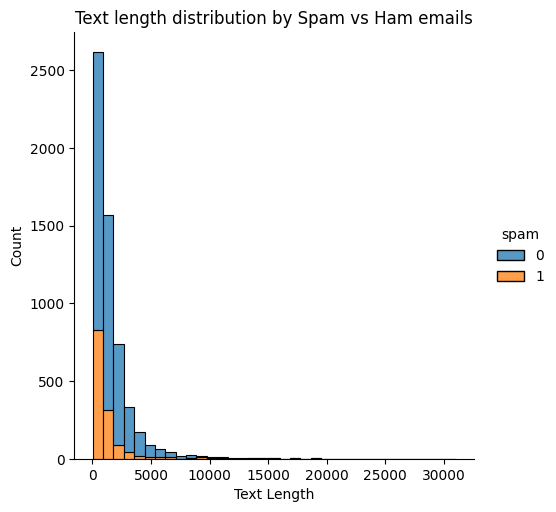
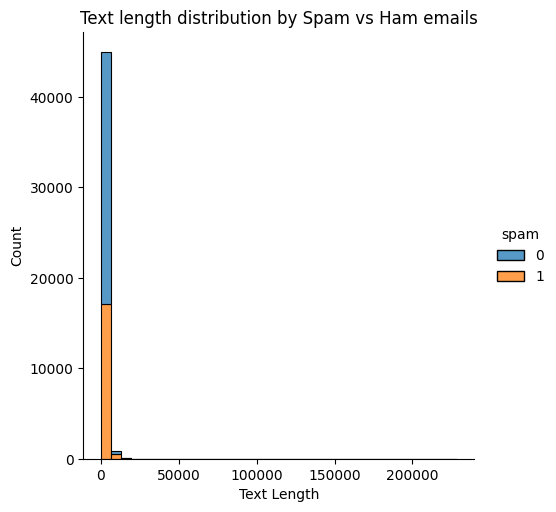
data type conversion

Changed region(s): [[0.0612, 0.0, 0.8561, 1.0]]

diff --git a/data_visualization.py b/data_visualization.py
@@ -18,17 +18,17 @@ def generate_feature_plot(email_df):
     spam_distribution.savefig(sys.path[0] + "/processed/plots/spam_distribution.png")
 
     # Generate plot for text length distribution of spam vs ham in the dataset 
-    email_df['text length'] = email_df['text'].apply(len) # Add a new data column categorizing the length of each email
+    email_df['text length'] = (email_df['text'].apply(lambda x: np.str_(x))).apply(len) # Add a new data column categorizing the length of each email
     email_length = sns.displot(email_df, x='text length', multiple="stack", hue="spam", bins=35).set_xlabels('Text Length').set(title='Text length distribution by Spam vs Ham emails')
     email_length.savefig(sys.path[0] + "/processed/plots/email_length.png")
 
     # Generate a word cloud for non spam emails
-    ham_text = " ".join(email for email in email_df[email_df['spam'] == 0]['text']) # Add all the text in the dataset that isn't spam to a long string
+    ham_text = " ".join(email for email in (email_df.to_string('text'))[email_df['spam'] == 0]['text']) # Add all the text in the dataset that isn't spam to a long string
     ham_wordcloud = WordCloud(width=500, height=500, max_font_size=75, max_words=150, background_color="white").generate(ham_text)
     ham_wordcloud.to_file(sys.path[0] + "/processed/plots/ham_wordcloud.png")
 
     # Generate a word cloud for spam emails
-    spam_text = " ".join(email for email in email_df[email_df['spam'] == 1]['text'])
+    spam_text = " ".join(email for email in (email_df.to_string('text'))[email_df['spam'] == 1]['text'])
     spam_wordcloud = WordCloud(width=500, height=500, max_font_size=75, max_words=150, background_color="white").generate(spam_text)
     spam_wordcloud.to_file(sys.path[0] + "/processed/plots/spam_wordcloud.png")
 
@@ -78,6 +78,4 @@ if __name__ == "__main__":
     # Load the email data
     email_dfs = load_data(sys.path[0] + "/dataset/combined_dataset.csv")
     # Generate plot
-    data_clean_up(email_dfs)
-    data_preprocessing(email_dfs)
-    generate_feature_plot(email_dfs)
+    generate_feature_plot(data_preprocessing(data_clean_up(email_dfs)))

diff --git a/data_utils.py b/data_utils.py
@@ -1,4 +1,5 @@
 import pandas as pd
+import numpy as np
 import sys
 
 def load_data(filename):
@@ -30,6 +31,7 @@ def data_clean_up(df):
         print("Found " + str(df.duplicated().sum()) + " duplicate entries")
         df.drop_duplicates(inplace=True) # Remove duplicates from dataframe
         df.reset_index(inplace=True) # Reset the index column after removing duplicates
+    return df
     
 def data_preprocessing(df):
     """
@@ -53,20 +55,16 @@ def data_preprocessing(df):
     # Remove NaN entries for both text and spam
     df = df.dropna(subset=['text', 'spam']).copy()
 
-    # Convert any invalid entries to string and int for easier checking
-    df['text'] = df['text'].astype(str)
-    df['spam'] = df['spam'].astype(int)
+    # Remove rows with value of float or int type
+    df = df.loc[df['text'].apply(type) == str]
 
-def data_combine(df_list):
-    """
-    Args:
-        df_list (list of DataFrame): DataFrame loaded from the CSV file. ex. [df1, df2, df3]
-    """
-    result_df = pd.concat(df_list) # Concatenate the available list of DataFrame, it should have the same column index after clean up (text, spam)
-    return result_df
+    # Convert any invalid entries to string and int for easier checking
+    df['text'] = df["text"].apply(lambda x: np.str_(x))
+    df['spam'] = df['spam'].astype(int)
+    return df
 
 if __name__ == "__main__":
     # Load the email data
-    email_dfs = load_data(sys.path[0] + "/dataset/emails.csv")
-    data_clean_up(email_dfs)
-    data_preprocessing(email_dfs)
+    email_dfs = load_data(sys.path[0] + "/dataset/combined_dataset.csv")
+    email_dfs = data_preprocessing(data_clean_up(email_dfs))
+    print(email_dfs)
